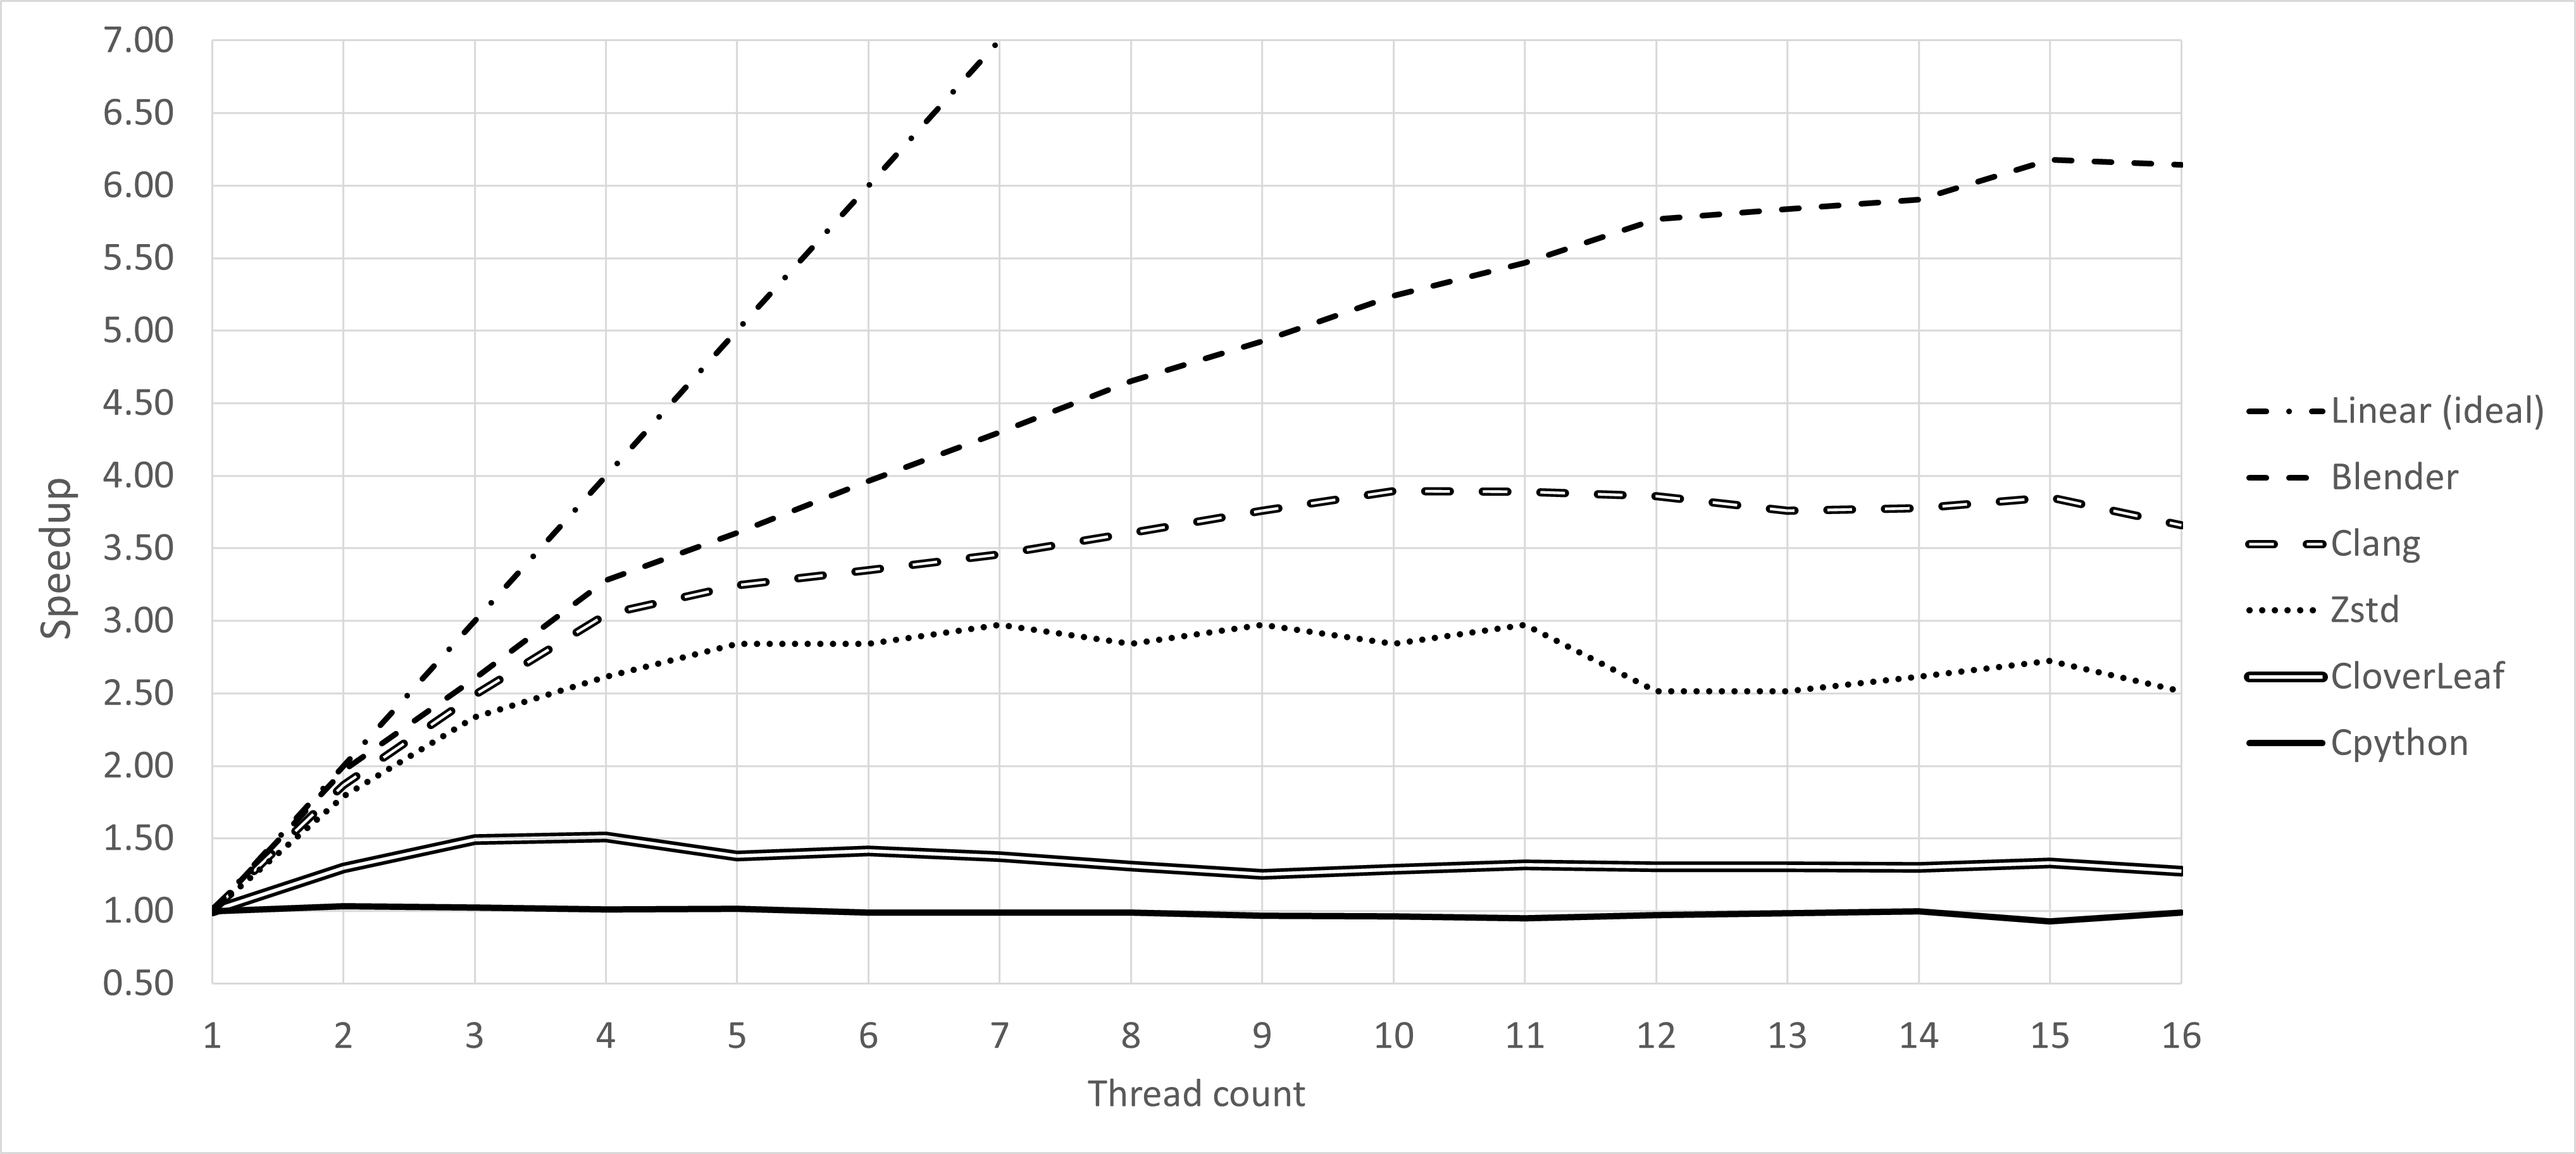
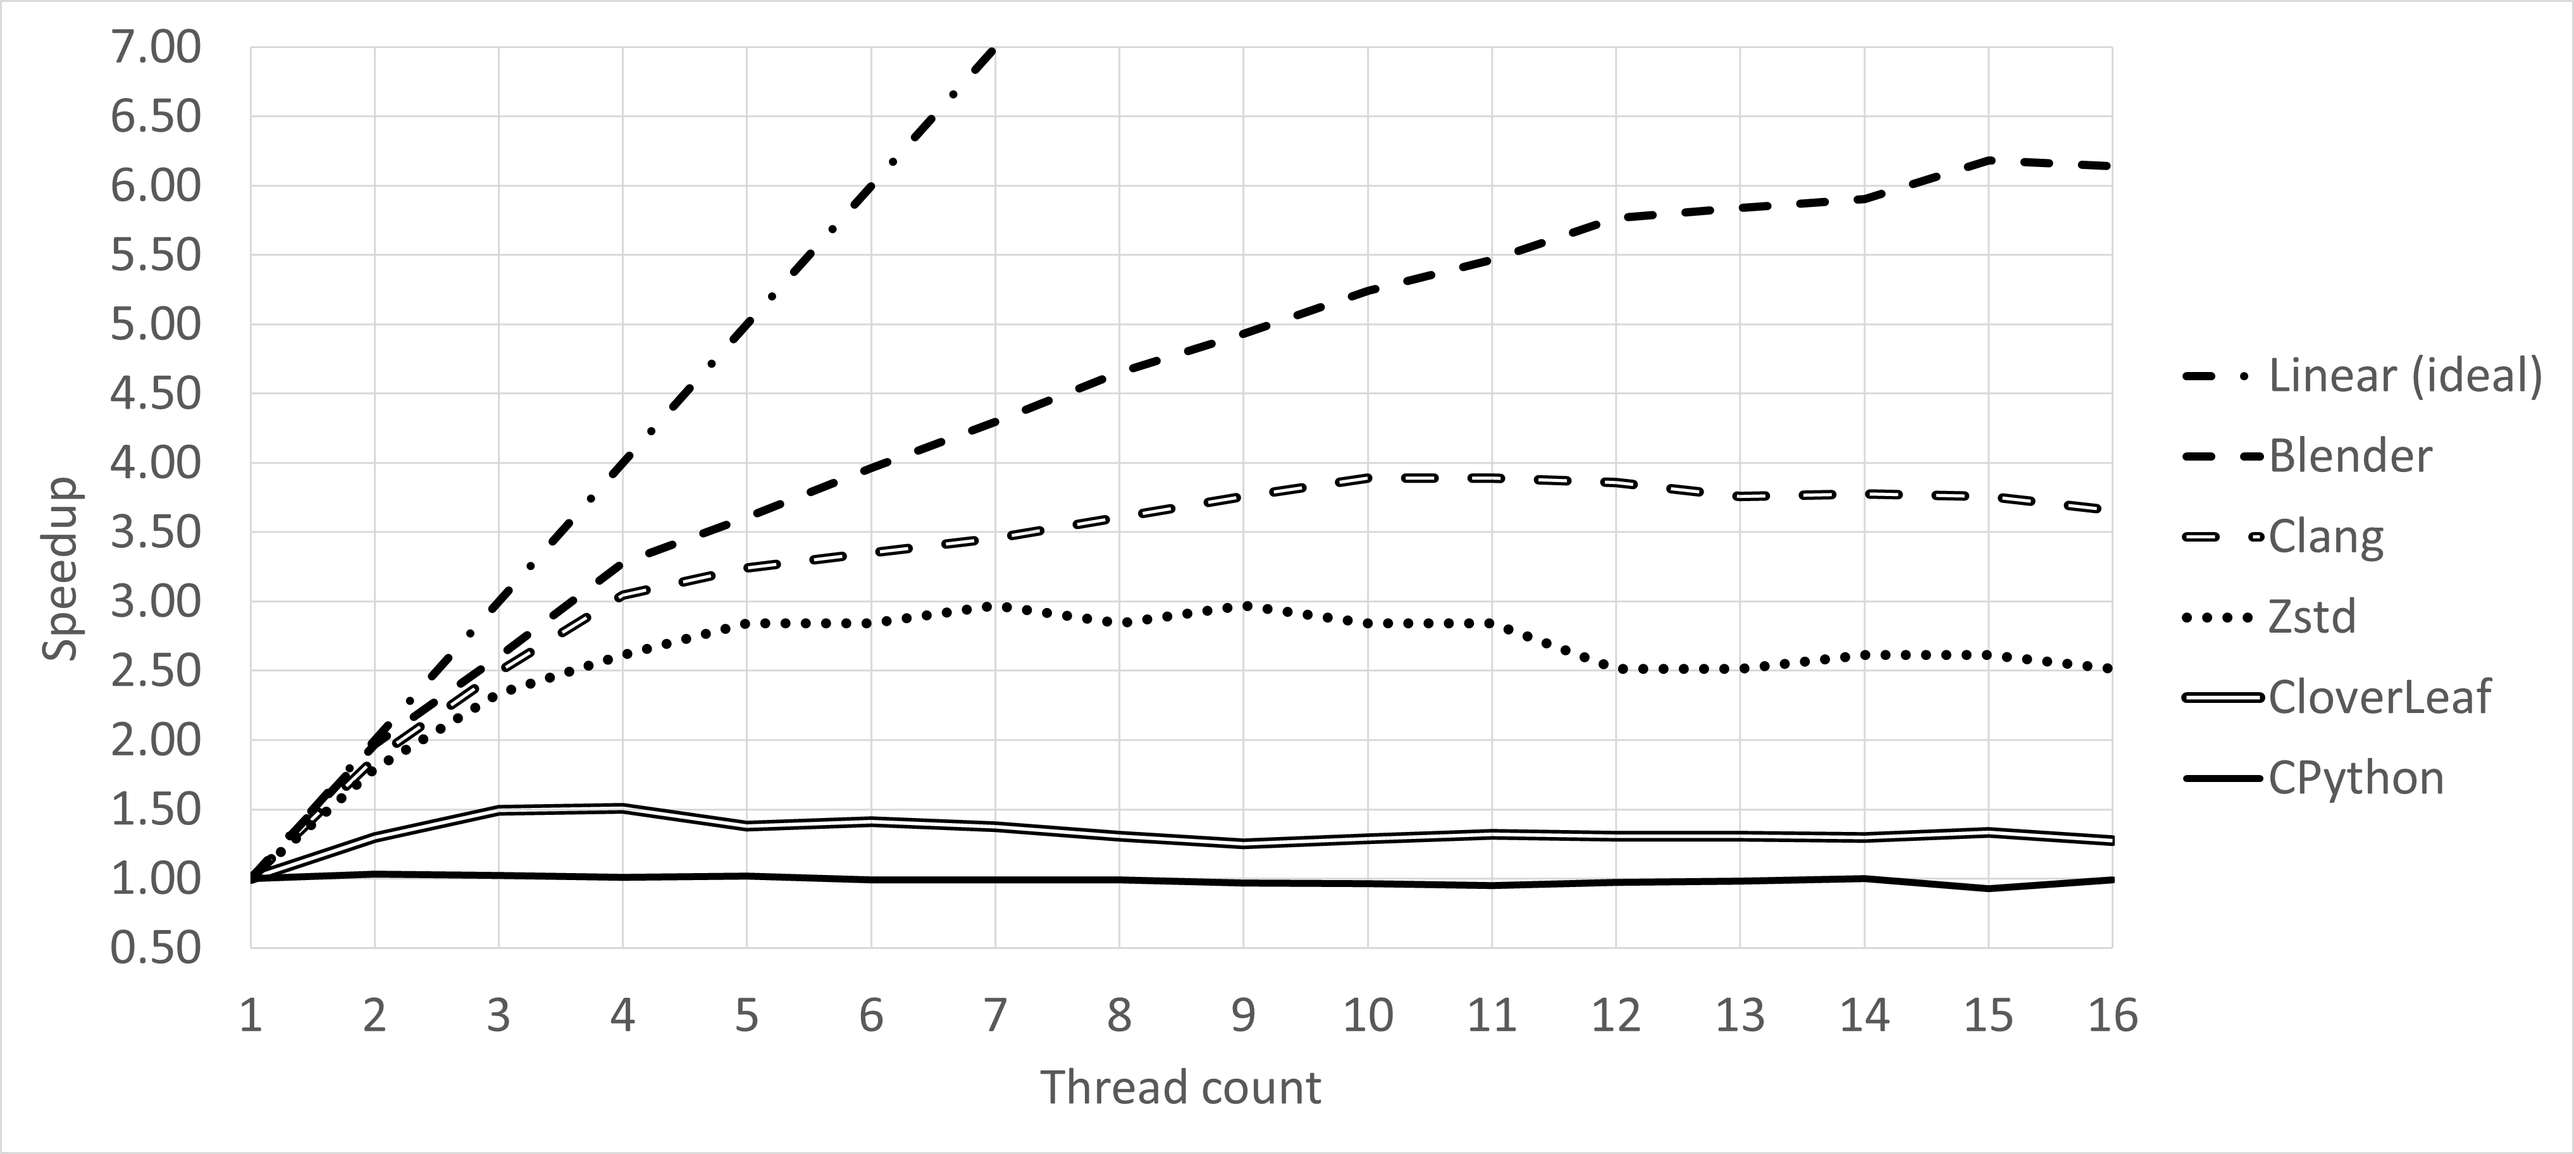
Wrote about Blender and Clang

diff --git a/chapters/13-Optimizing-Multithreaded-Applications/13-3 Core Count Scaling Case Study.md b/chapters/13-Optimizing-Multithreaded-Applications/13-3 Core Count Scaling Case Study.md
@@ -21,25 +21,39 @@ Our processor has four P-cores and eight E-cores. P-cores are SMT-enabled, which
 
 The benchmarks do fixed amount of work. The number of retired instructions is almost identical regardless of the core count.In all of them, the largest portion of an algorithm is implemented using divide-and-conquer paradigm, where work is split into equal parts, and each part can be processed independently. In theory, this allows applications to scale well with the number of cores. However, in practice, the scaling is not perfect. 
 
-Figure @fig:ScalabilityMainChart shows the core count scalability of the selected benchmarks. The x-axis represents the number of threads, and the y-axis shows the speedup relative to the single-threaded execution. The speedup is calculated as the execution time of the single-threaded execution divided by the execution time of the multi-threaded execution. The higher the speedup, the better the application scales with the number of threads. 
+Figure @fig:ScalabilityMainChart shows the thread count scalability of the selected benchmarks. The x-axis represents the number of threads, and the y-axis shows the speedup relative to the single-threaded execution. The speedup is calculated as the execution time of the single-threaded execution divided by the execution time of the multi-threaded execution. The higher the speedup, the better the application scales with the number of threads. 
 
-![Core Count Scalability chart for five selected benchmarks.](../../img/mt-perf/ScalabilityMainChart.png){#fig:ScalabilityMainChart width=90%}
+![Thread Count Scalability chart for five selected benchmarks.](../../img/mt-perf/ScalabilityMainChart.png){#fig:ScalabilityMainChart width=100%}
 
 As you can see, most of them are very far from the linear scaling, which is quite disappointing. The benchmark with the best scaling in this case study, Blender, achieves only 6x speedup while using 16x threads. CPython, for examples sees no core count scaling at all. Performance of Clang and Zstd suddenly degrades when the number of threads goes beyond 11. To understand this and other issues, let's dive into the details of each benchmark.
 
-### Blender
+### Blender {.unlisted .unnumbered}
 
-why atom cores aren't showing as busy in the vtune profiles?
-check topdown profile 4T_HT vs. 8T_HT - look at topdown - prove that it is exteremly core bound.
-Prove why it scales with SMT.
+Blender is the only benchmark in our suite that continues to scale up to all 16 threads in the system. The reason for this is that the workload is highly parallelizable. The rendering process is divided into small tiles, and each tile can be rendered independently. However, even with this high level of parallelism, the scaling is only `6.1x speedup / 16 threads = 38%`. What are the reasons for this suboptimal scaling?
 
-### Clang
+From [@sec:PerfMetricsCaseStudy], we know that Blender's performance is bounded by floating point computations. It has relatively high percentage of SIMD instructions as well. P-cores are much better at handling such instructions than E-cores. This is why we see the slope of the speedup curve decrease after 4 threads. After that, scaling continues at the same pace until 12 threads, where it starts to degrade again. This is the effect of using SMT sibling threads. Two active sibling SMT threads compete for the limited number of FP/SIMD execution units. To measure SMT scaling, we need to divide performance of two SMT threads (2T1C - two threads one core) by performance of a single P-core (1T1C), also `4T2C/2T2C`, `6T3C/3T3C`, and so on. For Blender, SMT scaling is around `1.3x` in all configurations. Obviously, this is not a perfect scaling, but still, using sibling SMT threads on P-cores provide performance boost for this workload.
 
-![Frequency throttling while runnning Clang.](../../img/mt-perf/FrequencyThrotlingClang.png){#fig:FrequencyThrotlingClang width=90%}
+There is another aspect of scaling degradation which we will talk about later.
 
-[TODO] Show noTurbo scalability chart?
- 
-### Zstd
+### Clang {.unlisted .unnumbered}
+
+Similar to Blender, we recommend you to revisit [@sec:PerfMetricsCaseStudy] for an overview of Clang compiler performance bottlenecks. In short, it has a large codebase, flat profile, many small functions, and "branchy" code. Its performance is affected by data cache and TLB misses, and branch mispredictions. It is largely affected by the same scaling issues as Blender: P-cores are more effective than E-cores, and P-core SMT scaling is about `1.1x`. But notice that scaling stops around 10 threads, and actually starts to degrade. Let's understand why that happens.
+
+The problem is related to the frequency throttling. When multiple cores are utilized simultaneously, the processor generates more heat due to the increased workload on each core. To prevent overheating and maintain stability, CPUs often throttle down their clock speeds depending on how many cores are in use. Additionally, boosting all cores to their maximum turbo frequency simultaneously would require significantly more power, which might exceed the power delivery capabilities of the CPU. Our system doesn't posses advanced liquid cooling solution, and only has a single processor fan.
+
+Figure @fig:FrequencyThrotlingClang shows the CPU frequency throttling on our platform while running Clang. Notice that sustained frequency starts to decline starting from a scenario when two P-cores are used simultaneously. By the time you start using all 16 threads, the frequency of P-cores is throttled down to `3.2GHz`, while E-cores operate at `2.6GHz`. We used Intel Vtune's platform view to visualize CPU frequency as shown in [@sec:IntelVtuneOverview]. 
+
+![Frequency throttling while runnning Clang compilation on Intel(R) Core(TM) i7-1260P.](../../img/mt-perf/FrequencyThrotlingClang.png){#fig:FrequencyThrotlingClang width=100%}
+
+Such frequency chart may be used as a first approximation to understand the throttling that occurs on your platform. However, it cannot be automatically applied to all the workloads. Applications that heavily use SIMD instructions typically operate on lower frequencies, so Blender, for example, may see slightly more frequency throttling than Clang.
+
+To confirm that frequency throttling is one of the main reasons for performance degradation, we temporarily disabled Turbo Boost on our platform and redo the scaling study. When Turbo Boost is disabled, all cores operate on their base frequencies, which are `2.1Ghz` for P-cores and `1.5Ghz` for E-cores. The results are shown in Figure @fig:ScalabilityNoTurboChart. As you can see, thread count scaling almost doubles when and 16 threads are used and TurboBoost is disabled, for both Blender (`38%->69%`) and Clang (`21%->41%`). It gives us an intuition of what the thread count scaling would look like if frequency throttling would not exist. In fact, frequency throttling accounts for a large portion of nonrealized performance scaling in modern systems.
+
+![Thread Count Scalability chart for Blender and Clang with disabled Turbo Boost. Frequency throttling is a major roadblock to achieve good thread count scaling.](../../img/mt-perf/ScalabilityNoTurboChart.png){#fig:ScalabilityNoTurboChart width=100%}
+
+Going back to the main chart shown in Figure fig:ScalabilityMainChart, for the Clang workload, the tipping point of performance scaling is around 10 threads. This is the point where the frequency throttling starts to have a significant impact on performance. The benefit of adding additional threads is smaller than the penalty of running at a lower frequency.
+
+### Zstd {.unlisted .unnumbered}
 
   redo full scalability study with affinity
   [DONE] check how to set the number of worker threads
@@ -49,7 +63,7 @@ Prove why it scales with SMT.
 
   When compressing data, Zstd divides the input into blocks, and each block can be compressed independently. This means that multiple threads can work on compressing different blocks simultaneously, speeding up the overall compression process.
 
-### CloverLeaf
+### CloverLeaf {.unlisted .unnumbered}
 
   remeasure 9t - there was a bug in the script.
   [DONE] redo full scalability study with affinity
@@ -58,7 +72,9 @@ Prove why it scales with SMT.
   Describe experiments with better memory speed.
   Why there is a drop from 4T -> 5T ? Are E-cores are slow or this is a beginning of thermal issue.
 
-### CPython
+Interestingly, for CloverLeaf, TurboBoost doesn't provide any performance benefit when all 16 threads are used. That means that performance is the same regardless you enable Turbo or let the cores run on their base frequency. How is that possible? The reason is that having 16 active threads is enough to saturate two memory controllers. Since most of the time threads are just waiting for data, when you disable Turbo, they simply start to wait "slower". This is why performance is the same regardless of the frequency.
+
+### CPython {.unlisted .unnumbered}
 
 [TODO]:
 Check clang SMT speedup on a single core.

diff --git a/chapters/4-Terminology-And-Metrics/4-11 Case Study of 4 Benchmarks.md b/chapters/4-Terminology-And-Metrics/4-11 Case Study of 4 Benchmarks.md
@@ -24,7 +24,7 @@ $ ~/workspace/pmu-tools/toplev.py -m --global --no-desc -v -- <app with args>
 
 Table {@tbl:perf_metrics_case_study} provides a side-by-side comparison of performance metrics for our four benchmarks. There is a lot we can learn about the nature of those workloads just by looking at the metrics. Here are the hypothesis we can make about the benchmarks before collecting performance profiles and diving deeper into the code of those applications.
 
-* __Blender__. The work is split fairly equally between P-cores and E-cores, with a decent IPC on both core types. The number of cache misses per kilo instructions is pretty low (see `L*MPKI`). Branch misprediction contributes as a bottleneck: the `Br. Misp. Ratio` metric is at `2%`; we get 1 misprediction every `610` instructions (see `IpMispredict` metric), which is not bad, but is not perfect either. TLB is not a bottleneck as we very rarely miss in STLB. We ignore `Load Miss Latency` metric since the number of cache misses is very low. The ILP is reasonably high. Goldencove is a 6-wide architecture; ILP of `3.67` means that the algorithm utilizes almost `2/3` of the core resources every cycle. Memory bandwidth demand is low, it's only 1.58 GB/s, far from the theoretical maximum for this machine. Looking at the `Ip*` metrics we can tell that Blender is a floating-point algorithm (see `IpFLOP` metric), a large portion of which is vectorized FP operations (see `IpArith AVX128`). But also, some portions of the algorithm are non-vectorized scalar FP single precision instructions (`IpArith Scal SP`). Also, notice that every 90th instruction is an explicit software memory prefetch (`IpSWPF`); we expect to see those hints in Blender's source code. Conclusion: Blender's performance is bound by FP compute with occasional branch mispredictions.
+* __Blender__. The work is split fairly equally between P-cores and E-cores, with a decent IPC on both core types. The number of cache misses per kilo instructions is pretty low (see `L*MPKI`). Branch misprediction presents a minor bottleneck: the `Br. Misp. Ratio` metric is at `2%`; we get 1 misprediction every `610` instructions (see `IpMispredict` metric), which is quite good. TLB is not a bottleneck as we very rarely miss in STLB. We ignore `Load Miss Latency` metric since the number of cache misses is very low. The ILP is reasonably high. Goldencove is a 6-wide architecture; ILP of `3.67` means that the algorithm utilizes almost `2/3` of the core resources every cycle. Memory bandwidth demand is low, it's only 1.58 GB/s, far from the theoretical maximum for this machine. Looking at the `Ip*` metrics we can tell that Blender is a floating-point algorithm (see `IpFLOP` metric), a large portion of which is vectorized FP operations (see `IpArith AVX128`). But also, some portions of the algorithm are non-vectorized scalar FP single precision instructions (`IpArith Scal SP`). Also, notice that every 90th instruction is an explicit software memory prefetch (`IpSWPF`); we expect to see those hints in Blender's source code. Conclusion: Blender's performance is bound by FP compute.
 
 * __Stockfish__. We ran it using only one HW thread, so there is zero work on E-cores, as expected. The number of L1 misses is relatively high, but then most of them are contained in L2 and L3 caches. The branch misprediction ratio is high; we pay the misprediction penalty every `215` instructions. We can estimate that we get one mispredict every `215 (instructions) / 1.80 (IPC) = 120` cycles, which is very frequently. Similar to the Blender reasoning, we can say that TLB and DRAM bandwidth is not an issue for Stockfish. Going further, we see that there is almost no FP operations in the workload. Conclusion: Stockfish is an integer compute workload, which is heavily affected by branch mispredictions.
 

diff --git a/chapters/7-Overview-Of-Performance-Analysis-Tools/7-1 Intel Vtune.md b/chapters/7-Overview-Of-Performance-Analysis-Tools/7-1 Intel Vtune.md
@@ -1,4 +1,4 @@
-## Intel VTune Profiler
+## Intel VTune Profiler {#sec:IntelVtuneOverview}
 
 VTune Profiler (formerly VTune Amplifier) is a performance analysis tool for x86-based machines with a rich GUI interface. It can be run on Linux or Windows operating systems. We skip discussion about MacOS support for VTune since it doesn't work on Apple's chips (e.g., M1 and M2), and Intel-based Macbooks are quickly becoming obsolete.
 
